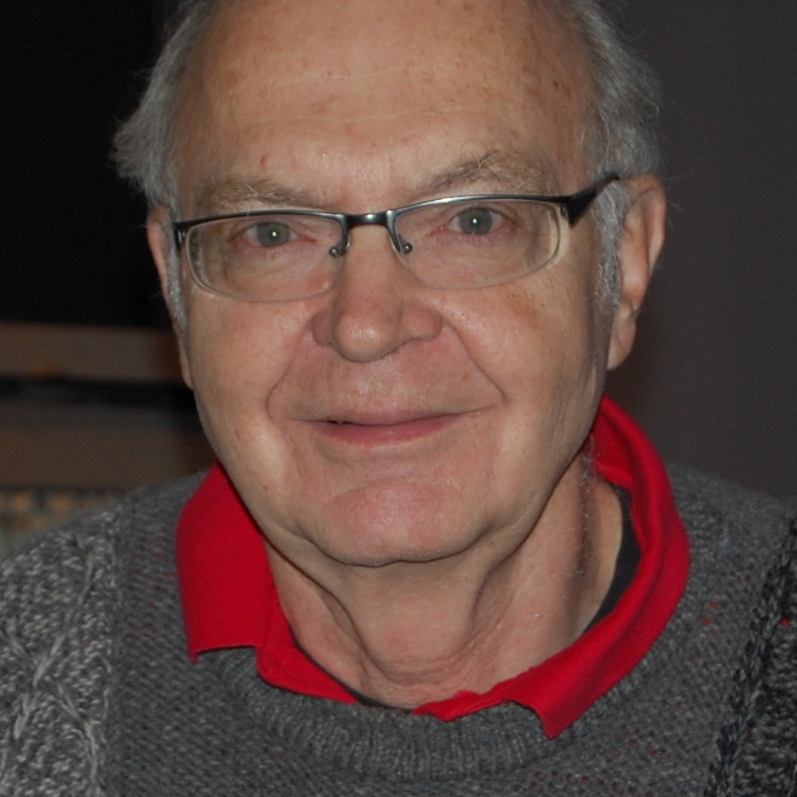
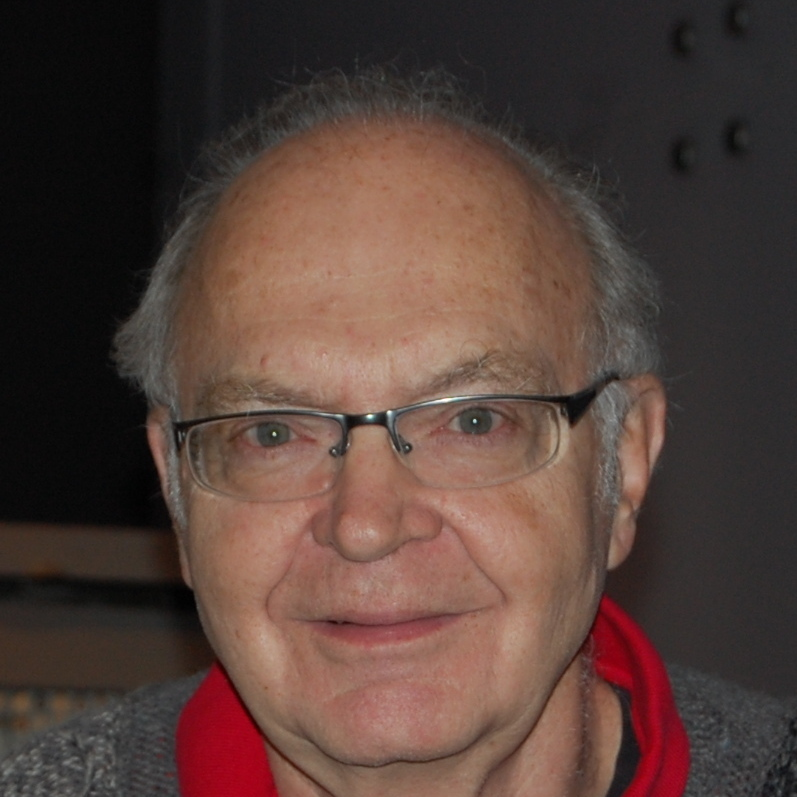
Use North-gravity smart cropping to preserve heads in portraits
Update image processing pipeline in week09-memory-management/
01-free-used-lists-buddy.html generation script to use -gravity North
when square-cropping portraits. Prevents cutting off the top of pioneers'
heads.

diff --git a/week09-memory-management/01-free-used-lists-buddy.html b/week09-memory-management/01-free-used-lists-buddy.html
@@ -96,9 +96,9 @@
     }
     .pioneer-profile img {
       width: 100%;
-      height: 210px;
+      height: 220px;
       object-fit: cover;
-      object-position: center 20%;
+      object-position: top center;
       border-radius: 4px;
       border: 1px solid var(--border);
       background: #e2e8f0;

diff --git a/fix.py b/fix.py
@@ -110,9 +110,9 @@ HTML_CONTENT = r"""<!DOCTYPE html>
     }
     .pioneer-profile img {
       width: 100%;
-      height: 210px;
+      height: 220px;
       object-fit: cover;
-      object-position: center 20%;
+      object-position: top center;
       border-radius: 4px;
       border: 1px solid var(--border);
       background: #e2e8f0;
@@ -907,10 +907,12 @@ HTML_CONTENT = r"""<!DOCTYPE html>
 </html>
 """
 
-COMMIT_MSG = """Fix NameError by importing ssl module in fix.py
+COMMIT_MSG = """Use North-gravity smart cropping to preserve heads in portraits
 
-Include the missing import ssl statement at the top of fix.py to resolve
-NameError when creating unverified SSL contexts for asset downloads."""
+Update image processing pipeline in week09-memory-management/
+01-free-used-lists-buddy.html generation script to use -gravity North
+when square-cropping portraits. Prevents cutting off the top of pioneers'
+heads."""
 
 def download_assets():
     images_dir = "week09-memory-management/images"
@@ -919,13 +921,7 @@ def download_assets():
     headers = {'User-Agent': 'Mozilla/5.0 (Macintosh; Intel Mac OS X 10_15_7)'}
     ctx = ssl._create_unverified_context()
 
-    asset_urls = {
-        "markowitz.jpg": "https://zicklin.baruch.cuny.edu/wp-content/uploads/sites/10/2023/07/Harry-Markowitz-1_WP_350x467.jpg",
-        "knowlton.jpg": "https://upload.wikimedia.org/wikipedia/commons/3/3e/Ken_Knowlton_in_2007.jpg",
-        "knuth.jpg": "https://upload.wikimedia.org/wikipedia/commons/a/a5/Donald_Ervin_Knuth_%28cropped%29.jpg"
-    }
-
-    for filename, url in asset_urls.items():
+    for filename, url in ASSET_URLS.items():
         filepath = os.path.join(images_dir, filename)
         print(f"--> Downloading {filename} from {url}...")
         try:
@@ -946,10 +942,11 @@ def crop_assets():
         print("    [Warning] ImageMagick not found on PATH. Skipping crop step.", file=sys.stderr)
         return
 
+    # Using -gravity North ensures the top of the image (heads/faces) is preserved during square cropping
     tasks = [
-        [magick_binary, os.path.join(images_dir, "markowitz.jpg"), "-gravity", "center", "-crop", "1:1", "+repage", os.path.join(images_dir, "markowitz.jpg")],
-        [magick_binary, os.path.join(images_dir, "knowlton.jpg"), "-gravity", "center", "-crop", "1:1", "+repage", os.path.join(images_dir, "knowlton.jpg")],
-        [magick_binary, os.path.join(images_dir, "knuth.jpg"), "-gravity", "center", "-crop", "1:1", "+repage", os.path.join(images_dir, "knuth.jpg")]
+        [magick_binary, os.path.join(images_dir, "markowitz.jpg"), "-gravity", "North", "-crop", "1:1", "+repage", os.path.join(images_dir, "markowitz.jpg")],
+        [magick_binary, os.path.join(images_dir, "knowlton.jpg"), "-gravity", "North", "-crop", "1:1", "+repage", os.path.join(images_dir, "knowlton.jpg")],
+        [magick_binary, os.path.join(images_dir, "knuth.jpg"), "-gravity", "North", "-crop", "1:1", "+repage", os.path.join(images_dir, "knuth.jpg")]
     ]
     for task in tasks:
         print(f"--> Running ImageMagick: {' '.join(task)}")
@@ -982,7 +979,7 @@ def execute_git_pipeline():
     run_git_step(["git", "add", target_module, images_dir], "Staging HTML and images directory")
     run_git_step(["git", "commit", "-a", "-m", COMMIT_MSG], "Committing with -a -m")
     run_git_step(["git", "push", "origin", "main"], "Pushing main to origin")
-    print("--> SSL import fixed, assets downloaded, cropped, and pushed successfully!")
+    print("--> Smart face cropping applied, committed, and pushed successfully!")
 
 if __name__ == "__main__":
     execute_git_pipeline()
